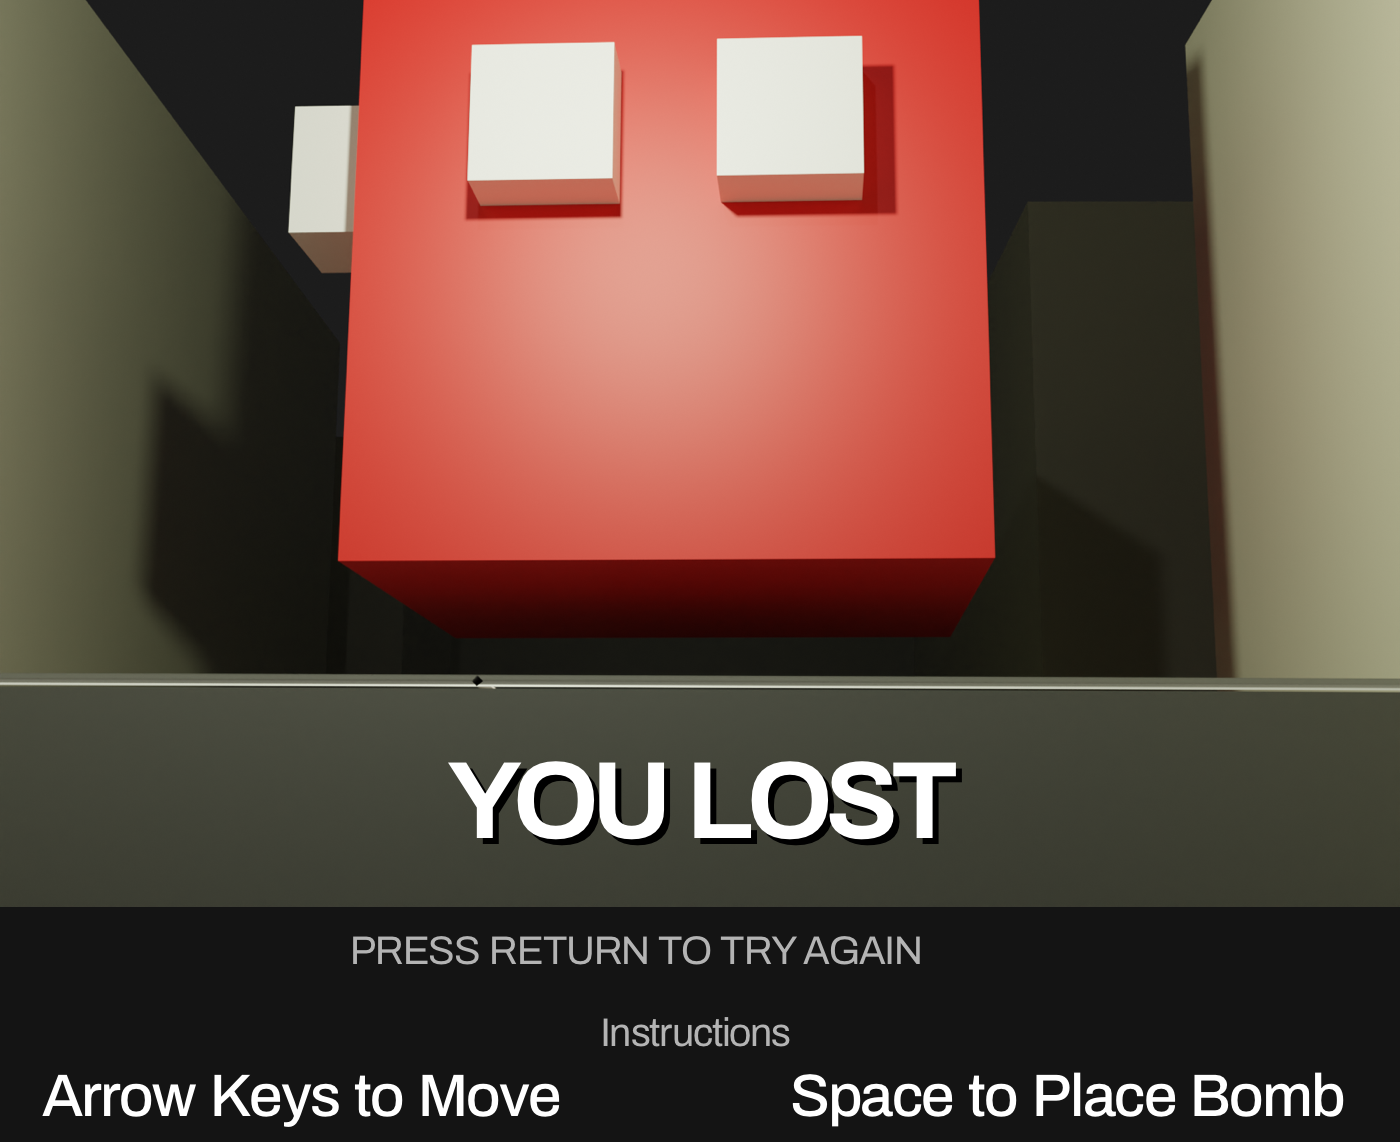
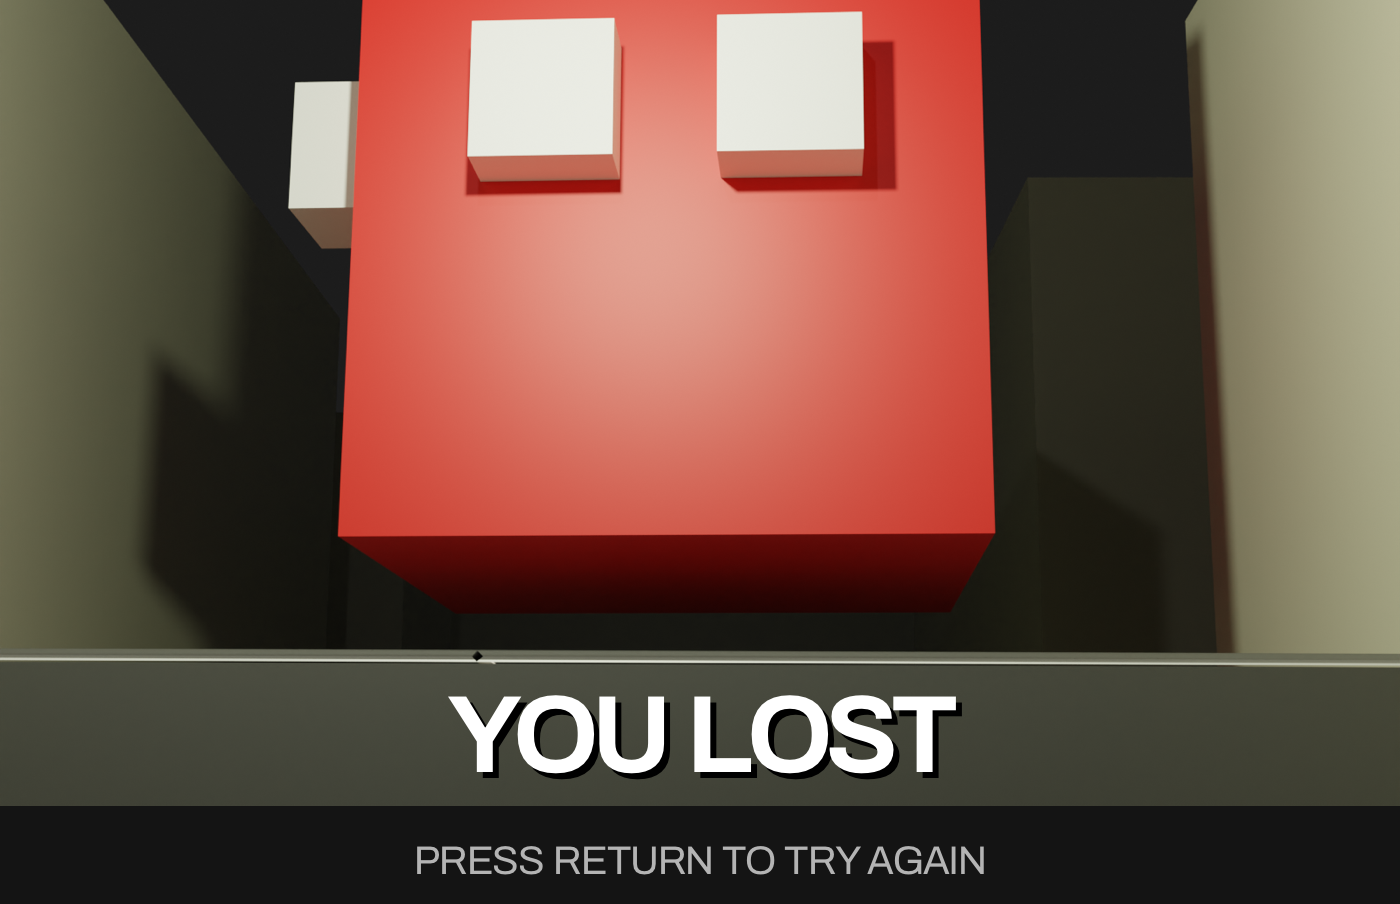
updated menus added scores

diff --git a/src/lost_plugin/mod.rs b/src/lost_plugin/mod.rs
@@ -1,4 +1,7 @@
-use crate::GameState;
+use crate::{
+    game_plugin::{CurrentLevel, Score},
+    GameState,
+};
 use bevy::prelude::*;
 
 pub struct LostPlugin;
@@ -22,7 +25,13 @@ impl Plugin for LostPlugin {
     }
 }
 
-fn setup(mut commands: Commands, asset_server: Res<AssetServer>) {
+fn setup(
+    mut commands: Commands,
+    asset_server: Res<AssetServer>,
+    score: Res<Score>,
+    level: Res<CurrentLevel>,
+) {
+    let won_text = format!("Level {}, {} Points", level.0 + 1, score.coins);
     commands
         .spawn_bundle(NodeBundle {
             style: Style {
@@ -52,7 +61,7 @@ fn setup(mut commands: Commands, asset_server: Res<AssetServer>) {
                     parent
                         .spawn_bundle(ButtonBundle {
                             style: Style {
-                                size: Size::new(Val::Px(150.0), Val::Px(65.0)),
+                                size: Size::new(Val::Px(250.0), Val::Px(65.0)),
                                 // center button
                                 margin: UiRect::all(Val::Auto),
                                 // horizontally center child text
@@ -69,15 +78,23 @@ fn setup(mut commands: Commands, asset_server: Res<AssetServer>) {
                                 "Play Again",
                                 TextStyle {
                                     font: asset_server.load("fonts/Archivo-Bold.ttf"),
-                                    font_size: 40.0,
+                                    font_size: 30.0,
                                     color: Color::rgb(0.9, 0.9, 0.9),
                                 },
                             ));
                         });
+                    parent.spawn_bundle(TextBundle::from_section(
+                        won_text,
+                        TextStyle {
+                            font: asset_server.load("fonts/Archivo-Bold.ttf"),
+                            font_size: 40.0,
+                            color: Color::rgb(1.0, 1.0, 0.0),
+                        },
+                    ));
                     // bevy logo (image)
                     parent.spawn_bundle(ImageBundle {
                         style: Style {
-                            size: Size::new(Val::Px(700.0), Val::Px(571.0)),
+                            size: Size::new(Val::Px(700.0), Val::Px(452.0)),
                             ..default()
                         },
                         image: asset_server.load("images/lost.png").into(),

diff --git a/src/won_plugin/mod.rs b/src/won_plugin/mod.rs
@@ -1,4 +1,4 @@
-use crate::GameState;
+use crate::{game_plugin::Score, GameState};
 use bevy::prelude::*;
 
 pub struct WonPlugin;
@@ -22,7 +22,8 @@ impl Plugin for WonPlugin {
     }
 }
 
-fn setup(mut commands: Commands, asset_server: Res<AssetServer>) {
+fn setup(mut commands: Commands, asset_server: Res<AssetServer>, score: Res<Score>) {
+    let won_text = format!("{} Points", score.coins);
     commands
         .spawn_bundle(NodeBundle {
             style: Style {
@@ -52,7 +53,7 @@ fn setup(mut commands: Commands, asset_server: Res<AssetServer>) {
                     parent
                         .spawn_bundle(ButtonBundle {
                             style: Style {
-                                size: Size::new(Val::Px(150.0), Val::Px(65.0)),
+                                size: Size::new(Val::Px(170.0), Val::Px(65.0)),
                                 // center button
                                 margin: UiRect::all(Val::Auto),
                                 // horizontally center child text
@@ -69,15 +70,23 @@ fn setup(mut commands: Commands, asset_server: Res<AssetServer>) {
                                 "Play Again",
                                 TextStyle {
                                     font: asset_server.load("fonts/Archivo-Bold.ttf"),
-                                    font_size: 40.0,
+                                    font_size: 20.0,
                                     color: Color::rgb(0.9, 0.9, 0.9),
                                 },
                             ));
                         });
+                    parent.spawn_bundle(TextBundle::from_section(
+                        won_text,
+                        TextStyle {
+                            font: asset_server.load("fonts/Archivo-Bold.ttf"),
+                            font_size: 40.0,
+                            color: Color::rgb(1.0, 1.0, 0.0),
+                        },
+                    ));
                     // bevy logo (image)
                     parent.spawn_bundle(ImageBundle {
                         style: Style {
-                            size: Size::new(Val::Px(700.0), Val::Px(571.0)),
+                            size: Size::new(Val::Px(700.0), Val::Px(499.0)),
                             ..default()
                         },
                         image: asset_server.load("images/won.png").into(),

diff --git a/src/menu_plugin/mod.rs b/src/menu_plugin/mod.rs
@@ -69,7 +69,7 @@ fn setup(mut commands: Commands, asset_server: Res<AssetServer>) {
                                 "Start",
                                 TextStyle {
                                     font: asset_server.load("fonts/Archivo-Bold.ttf"),
-                                    font_size: 40.0,
+                                    font_size: 20.0,
                                     color: Color::rgb(0.9, 0.9, 0.9),
                                 },
                             ));
@@ -77,7 +77,7 @@ fn setup(mut commands: Commands, asset_server: Res<AssetServer>) {
                     // bevy logo (image)
                     parent.spawn_bundle(ImageBundle {
                         style: Style {
-                            size: Size::new(Val::Px(700.0), Val::Px(571.0)),
+                            size: Size::new(Val::Px(900.0), Val::Px(538.0)),
                             ..default()
                         },
                         image: asset_server.load("images/title.png").into(),

diff --git a/src/game_plugin/mod.rs b/src/game_plugin/mod.rs
@@ -2,7 +2,7 @@ mod level;
 mod logic;
 mod statics;
 mod types;
-mod ui;
+pub mod ui;
 
 use bevy::prelude::*;
 use bevy_mod_outline::*;
@@ -13,13 +13,13 @@ use self::types::{GoNextLevelEvent, PlayerDiedEvent, ShowLevelExitEvent};
 use super::GameState;
 
 pub use types::MaterialHandles;
+pub use types::{CurrentLevel, Score};
 
 pub struct GamePlugin;
 
 impl Plugin for GamePlugin {
     fn build(&self, app: &mut App) {
-        app.insert_resource(types::Score::default())
-            .add_plugin(OutlinePlugin)
+        app.add_plugin(OutlinePlugin)
             .add_plugin(TweeningPlugin)
             .add_event::<ShowLevelExitEvent>()
             .add_event::<GoNextLevelEvent>()

diff --git a/src/main.rs b/src/main.rs
@@ -16,6 +16,7 @@ pub enum GameState {
 
 fn main() {
     App::new()
+        .insert_resource(game_plugin::Score::default())
         .insert_resource(ClearColor(Color::rgb(20. / 255., 20. / 255., 20. / 255.)))
         .insert_resource(WindowDescriptor {
             title: "I am a window!".to_string(),

diff --git a/src/game_plugin/types.rs b/src/game_plugin/types.rs
@@ -107,10 +107,6 @@ impl BoardDirection {
     pub fn new(x: i8, z: i8) -> Self {
         Self { x, z }
     }
-
-    pub fn is_zero(&self) -> bool {
-        self.x == 0 && self.z == 0
-    }
 }
 
 impl Mul<Vec2> for BoardDirection {

diff --git a/src/game_plugin/statics.rs b/src/game_plugin/statics.rs
@@ -17,7 +17,6 @@ pub const USER_DIED_PAYLOAD: u64 = 43;
 
 pub const PLAYER_SPEED: f32 = 0.25;
 pub const ENEMY_SPEED_EASY: f32 = 0.5;
-pub const ENEMY_SPEED_QUICK: f32 = 0.15;
 
 pub const LEVELS: &[&str] = &[L1, L2, L3];
 
